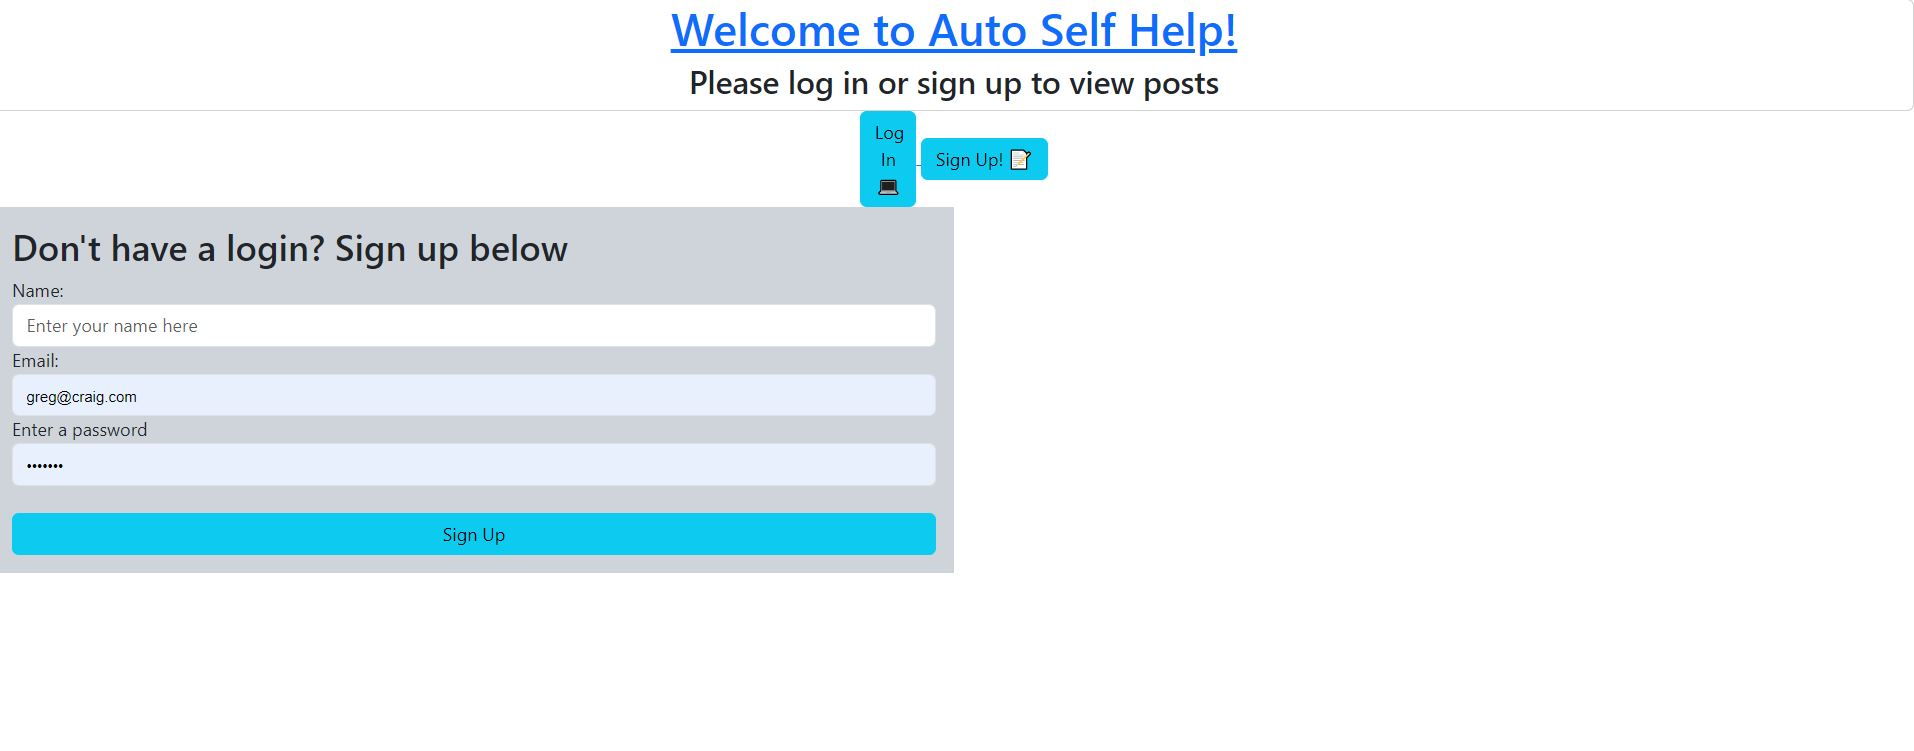
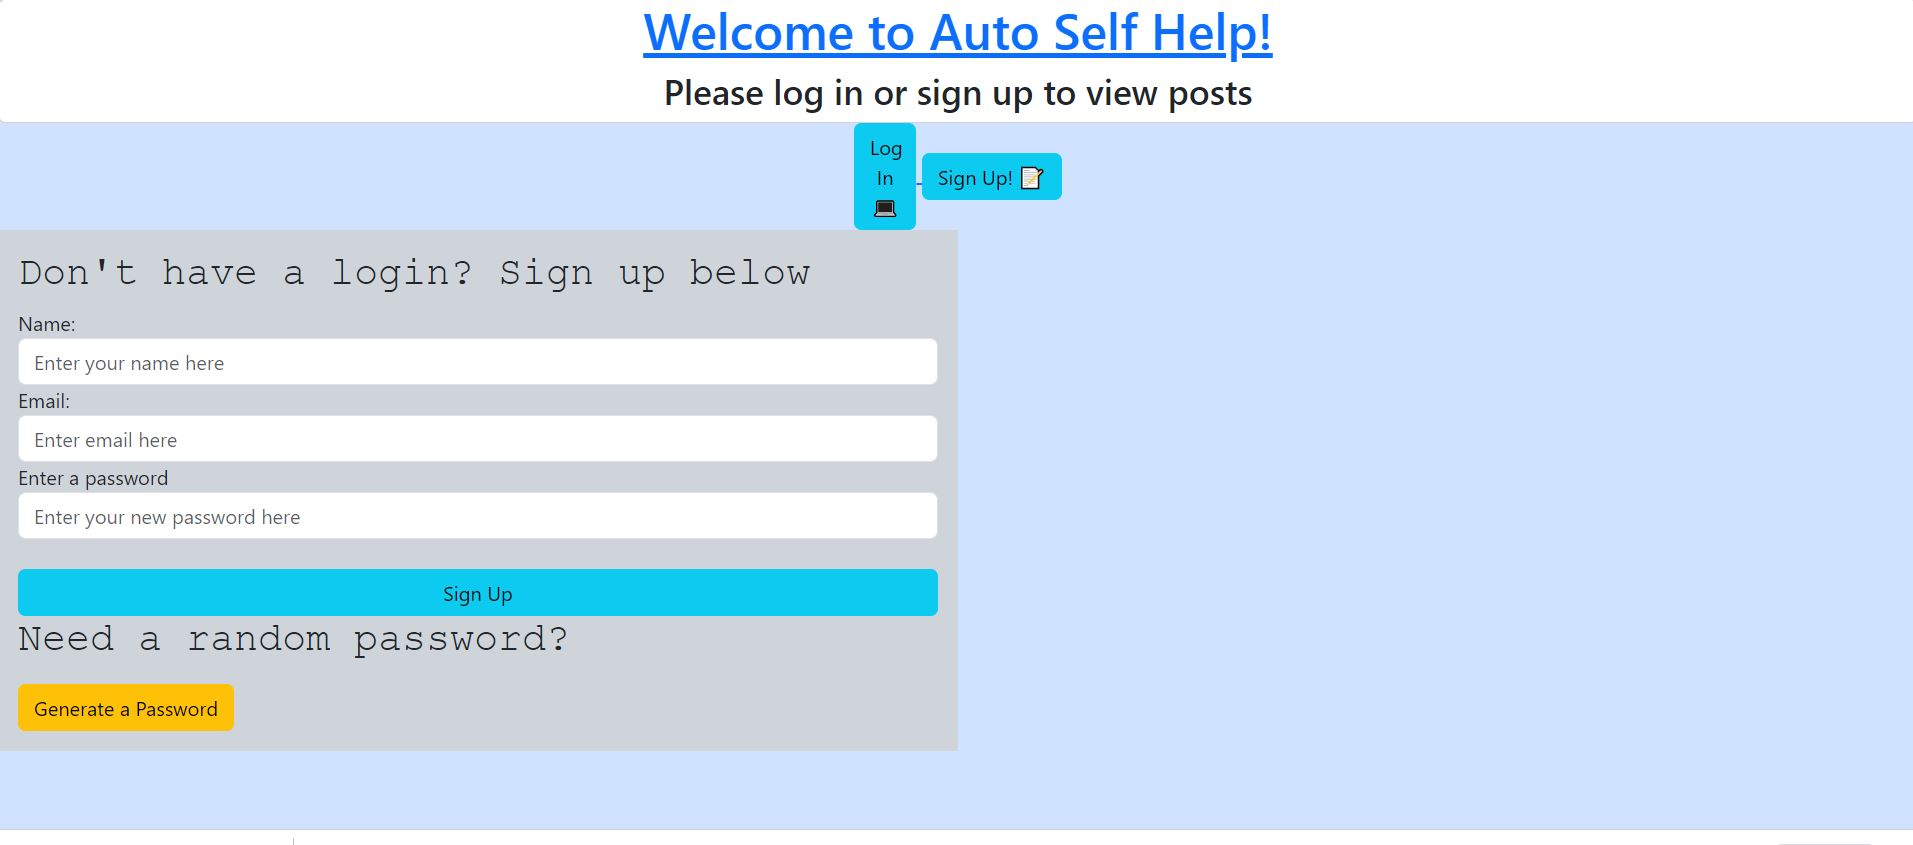
updated readme with screen shots and some details

diff --git a/README.md b/README.md
@@ -49,10 +49,13 @@ GIVEN a auto maintenance application
 **THEN I am able to see previous posts**
 
 *WHEN I create a new post*
-**THEN I am able to see my post and other users can respond**
+**THEN I am able to see my post and other users can comment with feedback**
 
 *WHEN I edit my previous post*
 **THEN I am presented with sections that I can edit and update**
+
+*WHEN I view the edit page for my post*
+**THEN I am able to delete the entire post if I wish**
 
 *WHEN click on a post*
 **THEN I am able to comment a response**
@@ -69,6 +72,8 @@ GIVEN a auto maintenance application
 ## Screen-Shots
 
 ![Sign up screenshot](./images/signup.JPG)
+
+![Sign up page w/ generated password screenshot](./images/signupGenPass.JPG)
 
 ![Log in screenshot](./images/login.JPG)
 
